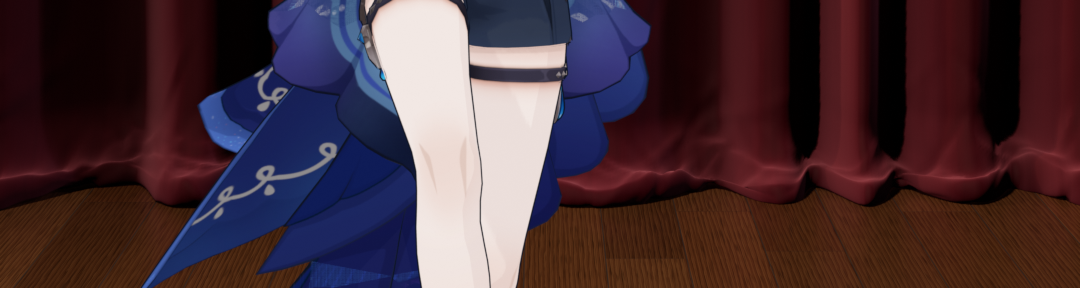
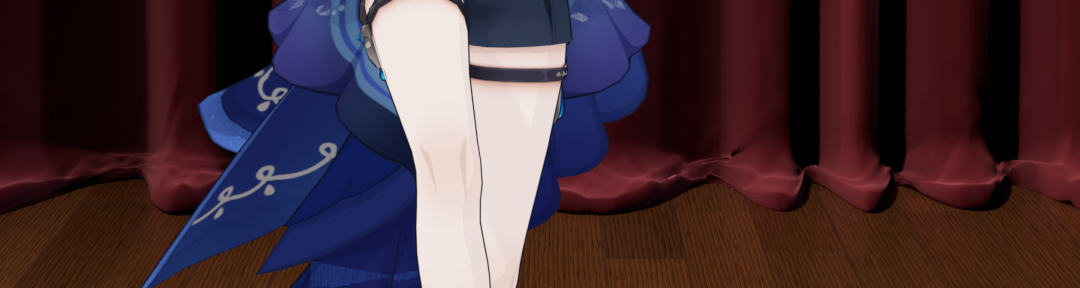
Furina stage: hem pool follows the folds (ridges spill further), lower break; fix NaN at curtain top row
Claude-Session: https://claude.ai/code/session_01L4cWoHW4TJS3VpJN3nyY7z

diff --git a/furina_stage/add_stage.py b/furina_stage/add_stage.py
@@ -48,8 +48,9 @@ STAGE_FRONT_Y = -3.4     # 台口前沿
 # bunch_* 堆叠区（每隔多少米一处、挤多紧），drift 褶沿高度左右漂移，wobble 褶沿高度变深变浅
 CURTAIN_DRAPE = dict(mean_w=0.12, depth=0.11, sigma=0.3, bunch_every=3.0, bunch_amp=(0.3, 0.9),
                      drift=0.06, wobble=0.18, n_creases=200, crease_amp=(0.0015, 0.005))
-# 大幕落地堆布：forward 向台前鼓出多远，height 鼓包多高，nose 最前面折边的圆弧半径，lumps 揉皱起伏（米）
-HEM_POOL = dict(forward=0.14, forward_var=0.045, height=0.17, height_var=0.04, nose=0.026, lumps=0.014)
+# 大幕落地堆布：forward 向台前摊出多远，height 在多高处开始弯下来，nose 最前面折边的圆弧半径，lumps 揉皱起伏（米）
+# ridge：褶脊比褶谷多流出去多少（0 = 一样，1 = 褶脊约是褶谷的 3 倍）
+HEM_POOL = dict(forward=0.15, forward_var=0.04, height=0.085, height_var=0.02, nose=0.02, lumps=0.01, ridge=1.0)
 PLANK_W = 0.15           # 地板条宽
 PLANK_L = 2.1            # 地板条长
 # 木纹公式的输入参数，每块板在基准值上随机浮动的比例（0.08 = ±8%）
@@ -555,15 +556,27 @@ def hanging_curtain(name, x0, x1, y0, height, rng, mat, coll, mean_w=0.2, depth=
         xs = np.arange(x0, x1 + 1e-6, dx)
     nc = len(xs)
 
-    # 每一处堆布的尺寸沿宽度缓慢变化：鼓包向前伸 Ry、高 Rz，折边圆弧半径 r，藏在下面的布长 tail
-    n1, n2 = _smooth_noise(rng, x0, x1, 0.3), _smooth_noise(rng, x0, x1, 0.9)
-    big = 0.5 * n1(xs) + 0.5 * n2(xs)
+    # 落地堆布：鼓包向前伸 Ry、高 Rz，折边圆弧半径 r，藏在下面的布长 tail。
+    # 先按固定顺序取随机数（保持褶子布局不变），再算褶子，最后让堆布跟着褶子走
     h = HEM_POOL
-    Ry = np.clip(h["forward"] + h["forward_var"] * big, h["forward"] * 0.5, h["forward"] * 1.6)
-    Rz = np.clip(h["height"] + h["height_var"] * _smooth_noise(rng, x0, x1, 0.45)(xs) + 0.4 * (Ry - h["forward"]),
-                 h["height"] * 0.55, h["height"] * 1.6)
-    r = np.clip(h["nose"] * (1.0 + 0.3 * _smooth_noise(rng, x0, x1, 0.25)(xs)), h["nose"] * 0.6, h["nose"] * 1.5)
-    tail = Ry * rng.uniform(0.6, 1.0)
+    n1, n2 = _smooth_noise(rng, x0, x1, 0.3), _smooth_noise(rng, x0, x1, 0.9)
+    nz = _smooth_noise(rng, x0, x1, 0.45)
+    nr = _smooth_noise(rng, x0, x1, 0.25)
+    u_tail = rng.uniform(0.6, 1.0)
+    n_pile = 6 + 18 + 16
+    zn = np.concatenate([np.arange(0.2, min(s_fine, height), ds_fine), np.arange(min(s_fine, height), height + 1e-6, ds)])
+    t = np.clip(np.concatenate([np.zeros(n_pile), (zn - 0.2) / (height - 0.2)]), 0.0, 1.0)
+    off, valley = fold_field(xs, t, rng, mean_w, depth, **fold_kw)
+
+    # 褶脊（valley≈0，朝观众）的布“流”得更远、弯得更高，褶谷几乎不往前出 → 前沿是跟着褶子走的花边
+    ridge = 1.0 - valley[0]
+    big = 0.5 * n1(xs) + 0.5 * n2(xs)
+    k = h["ridge"]
+    Ry = np.clip((h["forward"] + h["forward_var"] * big) * (1.0 - k / 2 + k * ridge), 0.02, h["forward"] * 2.2)
+    r = np.clip(h["nose"] * (1.0 + 0.3 * nr(xs)) * (0.7 + 0.5 * ridge), h["nose"] * 0.5, h["nose"] * 1.6)
+    Rz = h["height"] * (0.7 + 0.6 * ridge) + h["height_var"] * nz(xs) + 0.25 * (Ry - h["forward"])
+    Rz = np.clip(Rz, 2 * r + 0.02, h["height"] * 2.0)
+    tail = Ry * u_tail
     yn = -Ry                                             # 折边圆弧的圆心（相对 y0；台前是 -Y）
 
     rows_y, rows_z = [], []
@@ -578,8 +591,7 @@ def hanging_curtain(name, x0, x1, y0, height, rng, mat, coll, mean_w=0.2, depth=
         al = math.radians(al)
         rows_y.append(-Ry + Ry * math.cos(al))
         rows_z.append(0.002 + Rz - (Rz - 2 * r) * math.sin(al))
-    n_pile = len(rows_y)
-    zn = np.concatenate([np.arange(0.2, min(s_fine, height), ds_fine), np.arange(min(s_fine, height), height + 1e-6, ds)])
+    assert len(rows_y) == n_pile
     for z in zn:                                         # 竖直部分
         rows_y.append(np.zeros(nc))
         rows_z.append(Rz + 0.002 + (z - 0.2) * (height - Rz) / (height - 0.2))
@@ -591,8 +603,6 @@ def hanging_curtain(name, x0, x1, y0, height, rng, mat, coll, mean_w=0.2, depth=
     S_col = np.vstack([np.zeros((1, nc)), np.cumsum(seglen, axis=0)])
     s = S_col.mean(axis=1)
     s_floor = s[n_pile]
-    t = np.clip((s - s_floor) / (height - s_floor), 0.0, 1.0)
-    off, valley = fold_field(xs, t, rng, mean_w, depth, **fold_kw)
 
     # 折痕沿截面法线方向（竖直部分就是前后，鼓包上是斜的）
     ty, tz = np.gradient(BY, axis=0), np.gradient(BZ, axis=0)

diff --git a/furina_stage/README.md b/furina_stage/README.md
@@ -35,7 +35,7 @@ blender -b 模型.blend -P add_stage.py -- --render out/overview.png --overview
   每隔约 3 m 有一处温和的堆叠区（褶更挤更深）；截面前圆后尖、每段随机歪斜；顶部挂杆处渐渐被拉整齐。
   这些都在脚本顶部的 `CURTAIN_DRAPE` 里调（`drift` / `wobble` 调大，褶就会沿高度漂移、变深变浅，布显得更软）。
 - **细小皱纹** `add_creases()`：大幕上只有约 230 条很浅的近竖直折痕（不破坏垂坠），底边堆布上约 450 条短皱。
-- **底边堆布**：多出来的布“堆”在台面上——竖直垂下 → 向前弯出一个鼓包 → 在最前面绕一个圆弧折回 → 剩下的布平铺在鼓包下面往后藏。台前看到的是圆润厚实的折边（向前约 10–20 cm、高约 10–25 cm，沿宽度处处不同，上面还有揉皱的起伏和短皱），看不到布的末端。尺寸在脚本顶部的 `HEM_POOL` 里调。
+- **底边堆布**：多出来的布“堆”在台面上——竖直垂下，离地 6–12 cm 处开始弯下来 → 在地上向前摊开 → 在最前面绕一个圆弧折回 → 剩下的布藏在下面往后铺，所以看不到布的末端。堆布跟着褶子走：朝观众的褶脊“流”得更远、弯得更高，褶谷几乎不往前出，前沿是一凹一凸的花边（褶脊处向前约 15–25 cm）；再叠加大范围的随机变化和揉皱的起伏。尺寸在脚本顶部的 `HEM_POOL` 里调。
 
   ![底边堆布（原分辨率局部）](preview_hem_0200.png)
 - **丝绒** `mat_velvet()`：正对视线时是深酒红，掠射角泛出偏玫红的绒光（层权重 + Sheen）；
